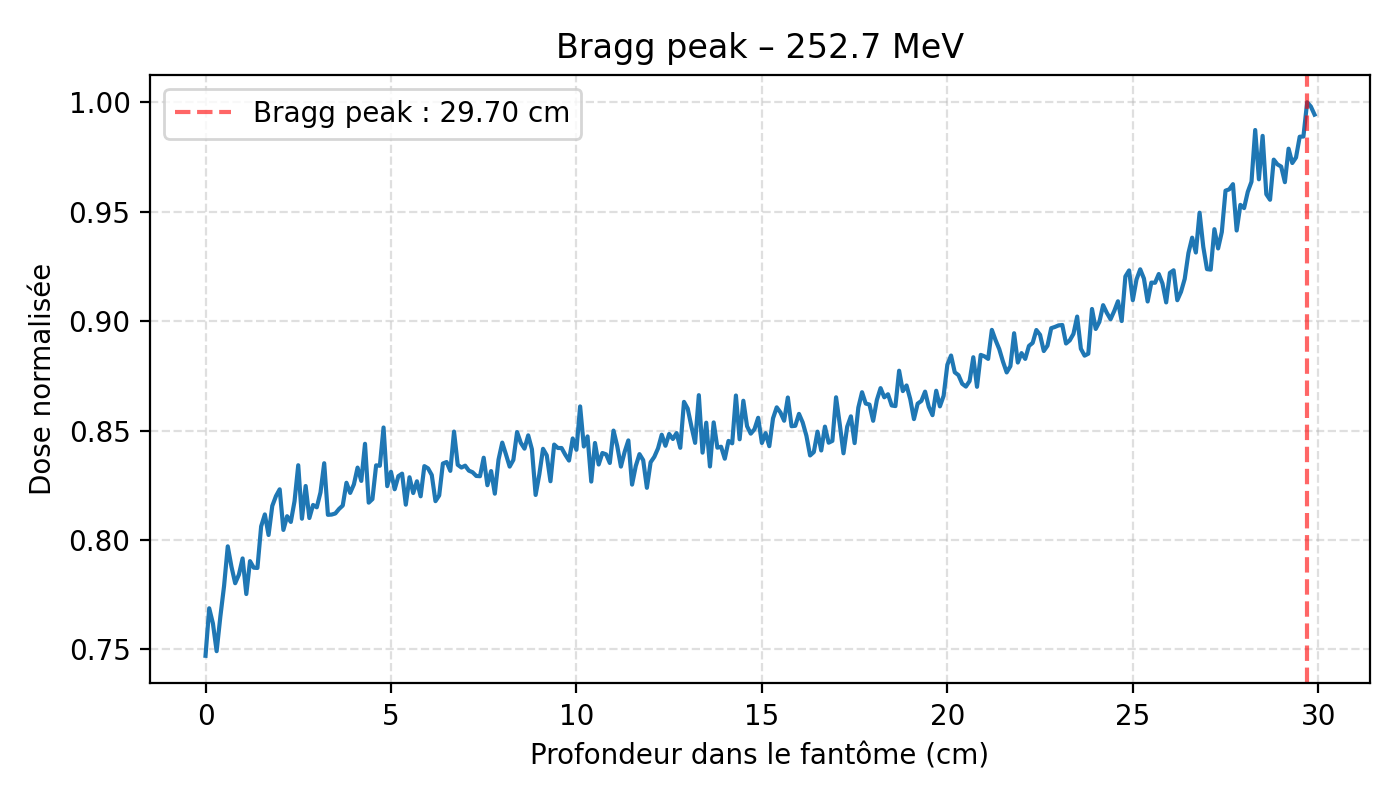
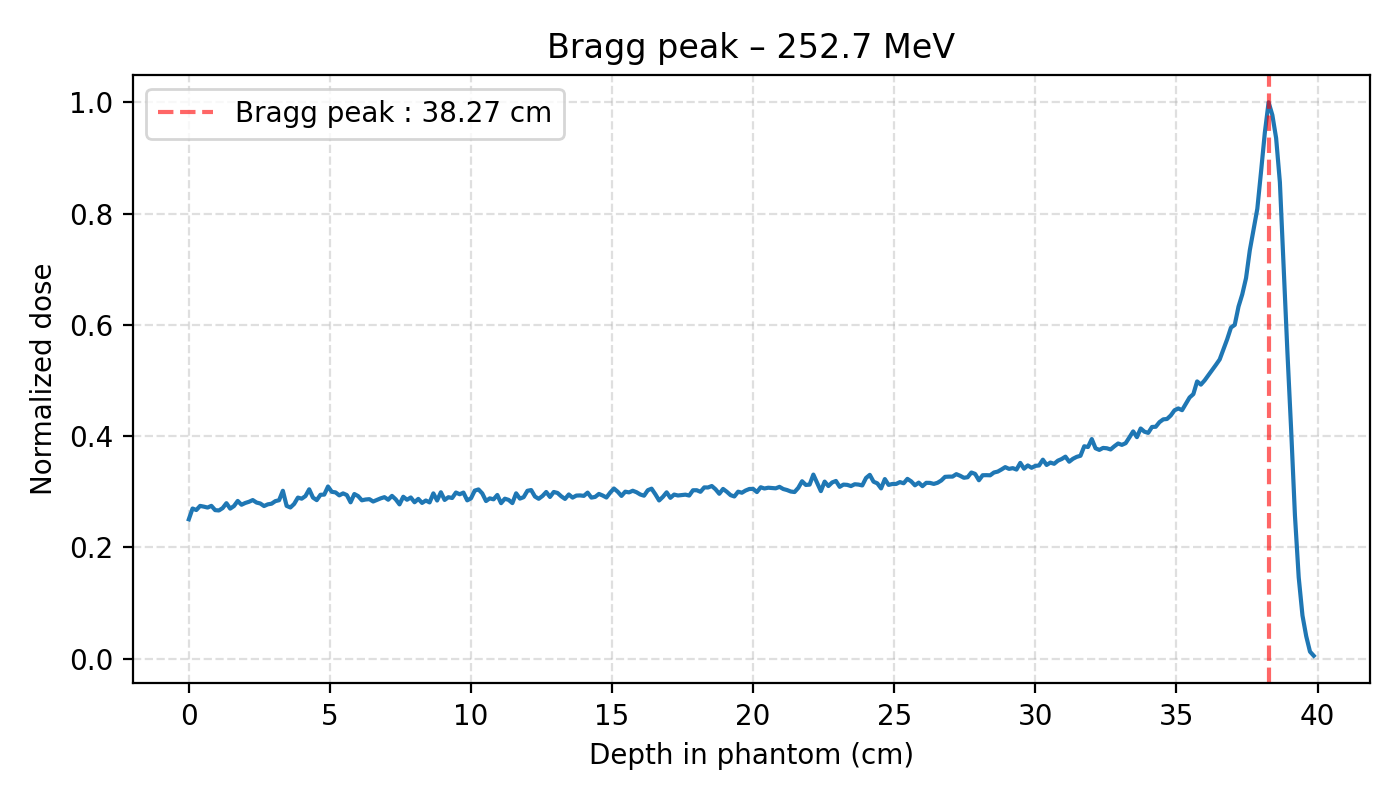
results update

diff --git a/README.md b/README.md
@@ -1,0 +1,128 @@
+# FLASH-BPM-Project Simulation
+
+Monte Carlo simulation of a proton beam monitor detector system using [OpenGATE](https://opengate.readthedocs.io/) (Geant4).  
+The project studies energy deposition and detector response for high-energy proton beams, with applications in medical particle therapy and radiation monitoring.
+
+---
+
+## Project Structure
+
+```
+FLASH-BPM-Project/
+├── figures/                        # Output plots (Bragg peaks, profiles)
+├── report/                         # LaTeX source for the final report
+├── simulation/
+│   ├── output_first_simu/          # Simulation outputs
+│   │   ├── case_62.4MeV/
+│   │   │   ├── dose/               # .mhd dose maps
+│   │   │   └── phsp/               # .root phase-space files
+│   │   └── case_252.7MeV/
+│   │       ├── dose/
+│   │       └── phsp/
+│   └── output_test_gate/           # Early test outputs
+├── utils/
+│   ├── __init__.py
+│   └── materials.py                # Custom Geant4 material definitions (FR4, ...)
+├── first_simu.py                   # Main simulation script
+├── test_gate.py                    # Early test script
+└── README.md
+```
+
+---
+
+## Physics Setup
+
+| Parameter | Value |
+|---|---|
+| Physics list | `QGSP_BIC_EMZ` |
+| Particle | Proton |
+| Energy range | 62.4 MeV – 252.7 MeV |
+| Beam profile | Point source (Gaussian planned) |
+| Transport medium | Air |
+
+---
+
+## Geometry
+
+```
+Source → [ Water Phantom ] → [ PCB (FR4) ] → [ plane_in ] → [ Si Sensor ]
+            depth adapted        1.84 mm          5 µm           0.5 mm
+```
+
+| Volume | Material | Purpose |
+|---|---|---|
+| Water phantom | G4_WATER | Tissue-equivalent medium, Bragg peak study |
+| PCB board | FR4 (custom) | Realistic detector support |
+| Silicon sensor | G4_Si | Active detector layer |
+| Control plane | G4_AIR | Phase-space recording (zero physics impact) |
+
+The phantom thickness is automatically adapted to the beam energy so that protons always reach the detector:
+
+| Mode | Energy | Phantom depth |
+|---|---|---|
+| `min` | 62.4 MeV | 3.5 cm |
+| `max` | 252.7 MeV | 30.0 cm |
+
+---
+
+## Simulation Outputs
+
+| File | Description |
+|---|---|
+| `phantom_dose_*.mhd` | 3D dose map in water → Bragg peak profile |
+| `phantom_edep_*.mhd` | Raw energy deposition in water |
+| `sensor_dose_*.mhd` | 2D dose map in silicon sensor |
+| `sensor_edep_*.mhd` | Raw energy deposition in sensor |
+| `phsp_*.root` | Phase-space: position, energy, direction at sensor entrance |
+| `figures/bragg_peak_*.png` | Depth-dose plots |
+
+---
+
+## Usage
+
+### Run a simulation
+
+```bash
+# Low energy (62.4 MeV) — thin phantom
+python first_simu.py --mode min
+
+# High energy (252.7 MeV) — thick phantom
+python first_simu.py --mode max
+
+# Custom number of primaries
+python first_simu.py --mode max --nparticles 50000
+```
+
+### Environment
+
+```bash
+conda activate gate
+```
+
+> Requires OpenGATE, SimpleITK, NumPy, Matplotlib.  
+> To read `.root` phase-space files: `pip install uproot awkward`
+
+---
+
+## Current Status
+
+- [x] Basic geometry (phantom + PCB + Si sensor)
+- [x] Custom FR4 material definition
+- [x] Dose actors on phantom and sensor
+- [x] Phase-space recording at detector entrance
+- [x] Bragg peak analysis and plotting
+- [x] Adaptive geometry for min/max energy presets
+- [ ] Gaussian beam profile
+- [ ] Energy scan across full range (62.4 – 252.7 MeV)
+- [ ] Lateral beam profile analysis (uproot)
+- [ ] Range–energy curve (R80)
+- [ ] Carbon ion beam extension
+- [ ] Comparison with experimental measurements
+
+---
+
+## References
+
+- [OpenGATE documentation](https://opengate.readthedocs.io/)
+- [Geant4 physics lists](https://geant4.web.cern.ch/support/proc_mod_catalog/physics_lists/)
+- ICRU Report 78 – Prescribing, Recording, and Reporting Proton-Beam Therapy
